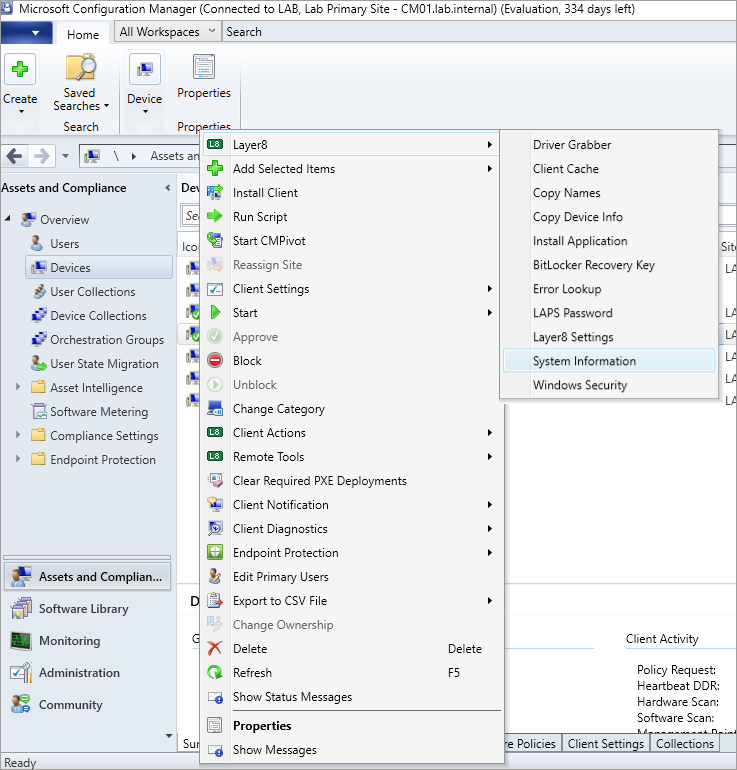
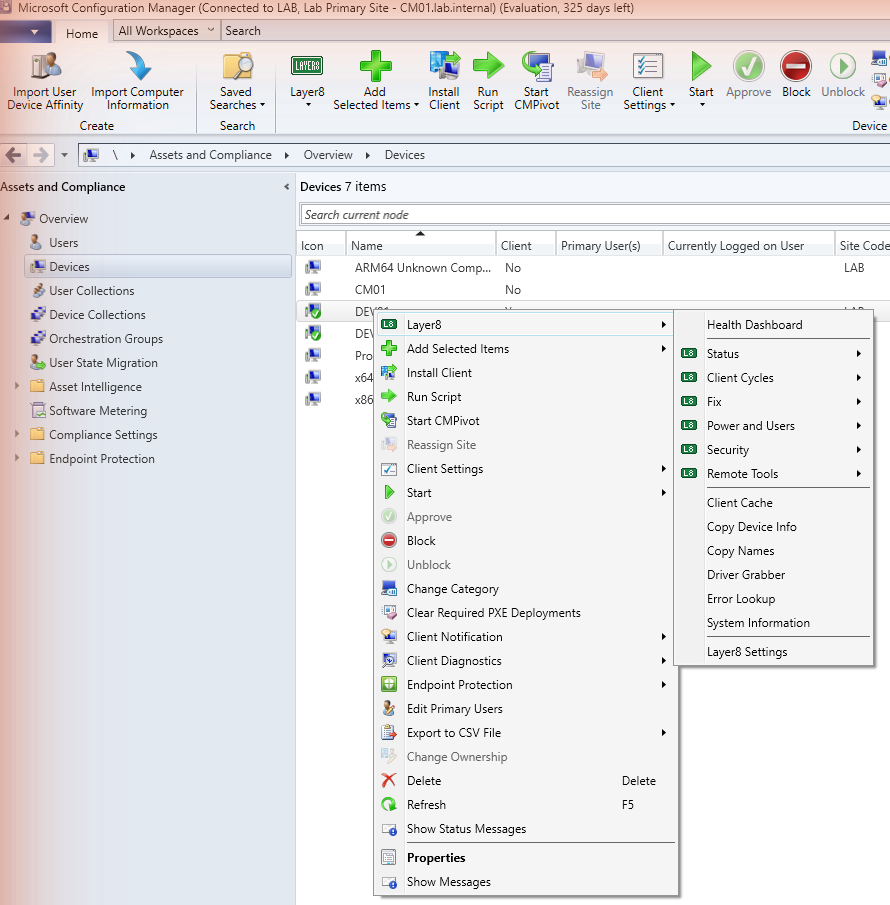
Docs: screenshots of the new Layer8 menus
The README GIF, the tour's device and collection menus, and INSTALL's check step now show one Layer8 menu with Status, Client Cycles, Fix and the rest. The collection shot is renamed collection-menu.png and INSTALL uses the tour's device shot.

diff --git a/docs/TOUR.md b/docs/TOUR.md
@@ -6,7 +6,7 @@ What Layer8 looks like in the ConfigMgr console. The screenshots are from a lab 
 
 Right-click a device collection, **Layer8**: **Health Dashboard** first, then **Status** (read-only checks), **Client Cycles**, **Fix** (changes something on the devices) and **Power and Users**, each alphabetical inside. Each action runs on every device in the collection. Below them are Add and Remove Resources List, Collect Client Logs, Copy Member Names and Error Lookup, then Layer8 Settings.
 
-![A device collection's context menu, Layer8 open: Health Dashboard, then Status, Client Cycles, Fix and Power and Users, then Add Resources List, Collect Client Logs, Copy Member Names, Error Lookup, Remove Resources List and Layer8 Settings](images/tour/collection-client-actions.png)
+![A device collection's context menu, Layer8 open: Health Dashboard, then Status, Client Cycles, Fix and Power and Users, then Add Resources List, Collect Client Logs, Copy Member Names, Error Lookup, Remove Resources List and Layer8 Settings](images/tour/collection-menu.png)
 
 Right-click a device, **Layer8**: **Health Dashboard** first, then everything else in submenus by what each action does. **Status** is read-only checks, **Client Cycles** the eleven standard cycles, **Fix** whatever changes something on the device (repairs, policy, installs, scans), then **Power and Users**, **Security** (read-only: BitLocker key, LAPS password, Windows Security) and **Remote Tools**. Below them are the tools for one device, and Layer8 Settings. Each submenu is alphabetical. Add Selected Items to Existing Device Collections is in the console's own **Add Selected Items** menu.
 

diff --git a/docs/INSTALL.md b/docs/INSTALL.md
@@ -119,7 +119,7 @@ If the installer window isn't in front, look for it on the taskbar. Until you cl
 
 **6. Check.** Right-click a device: the **Layer8** menu is there, with **Health Dashboard** at its top.
 
-![Layer8 menus on a device](images/install-device-menu.png)
+![A device's context menu, Layer8 open: Health Dashboard, then Status, Client Cycles, Fix, Power and Users, Security and Remote Tools](images/tour/device-menu.png)
 
 ### What the install does
 
